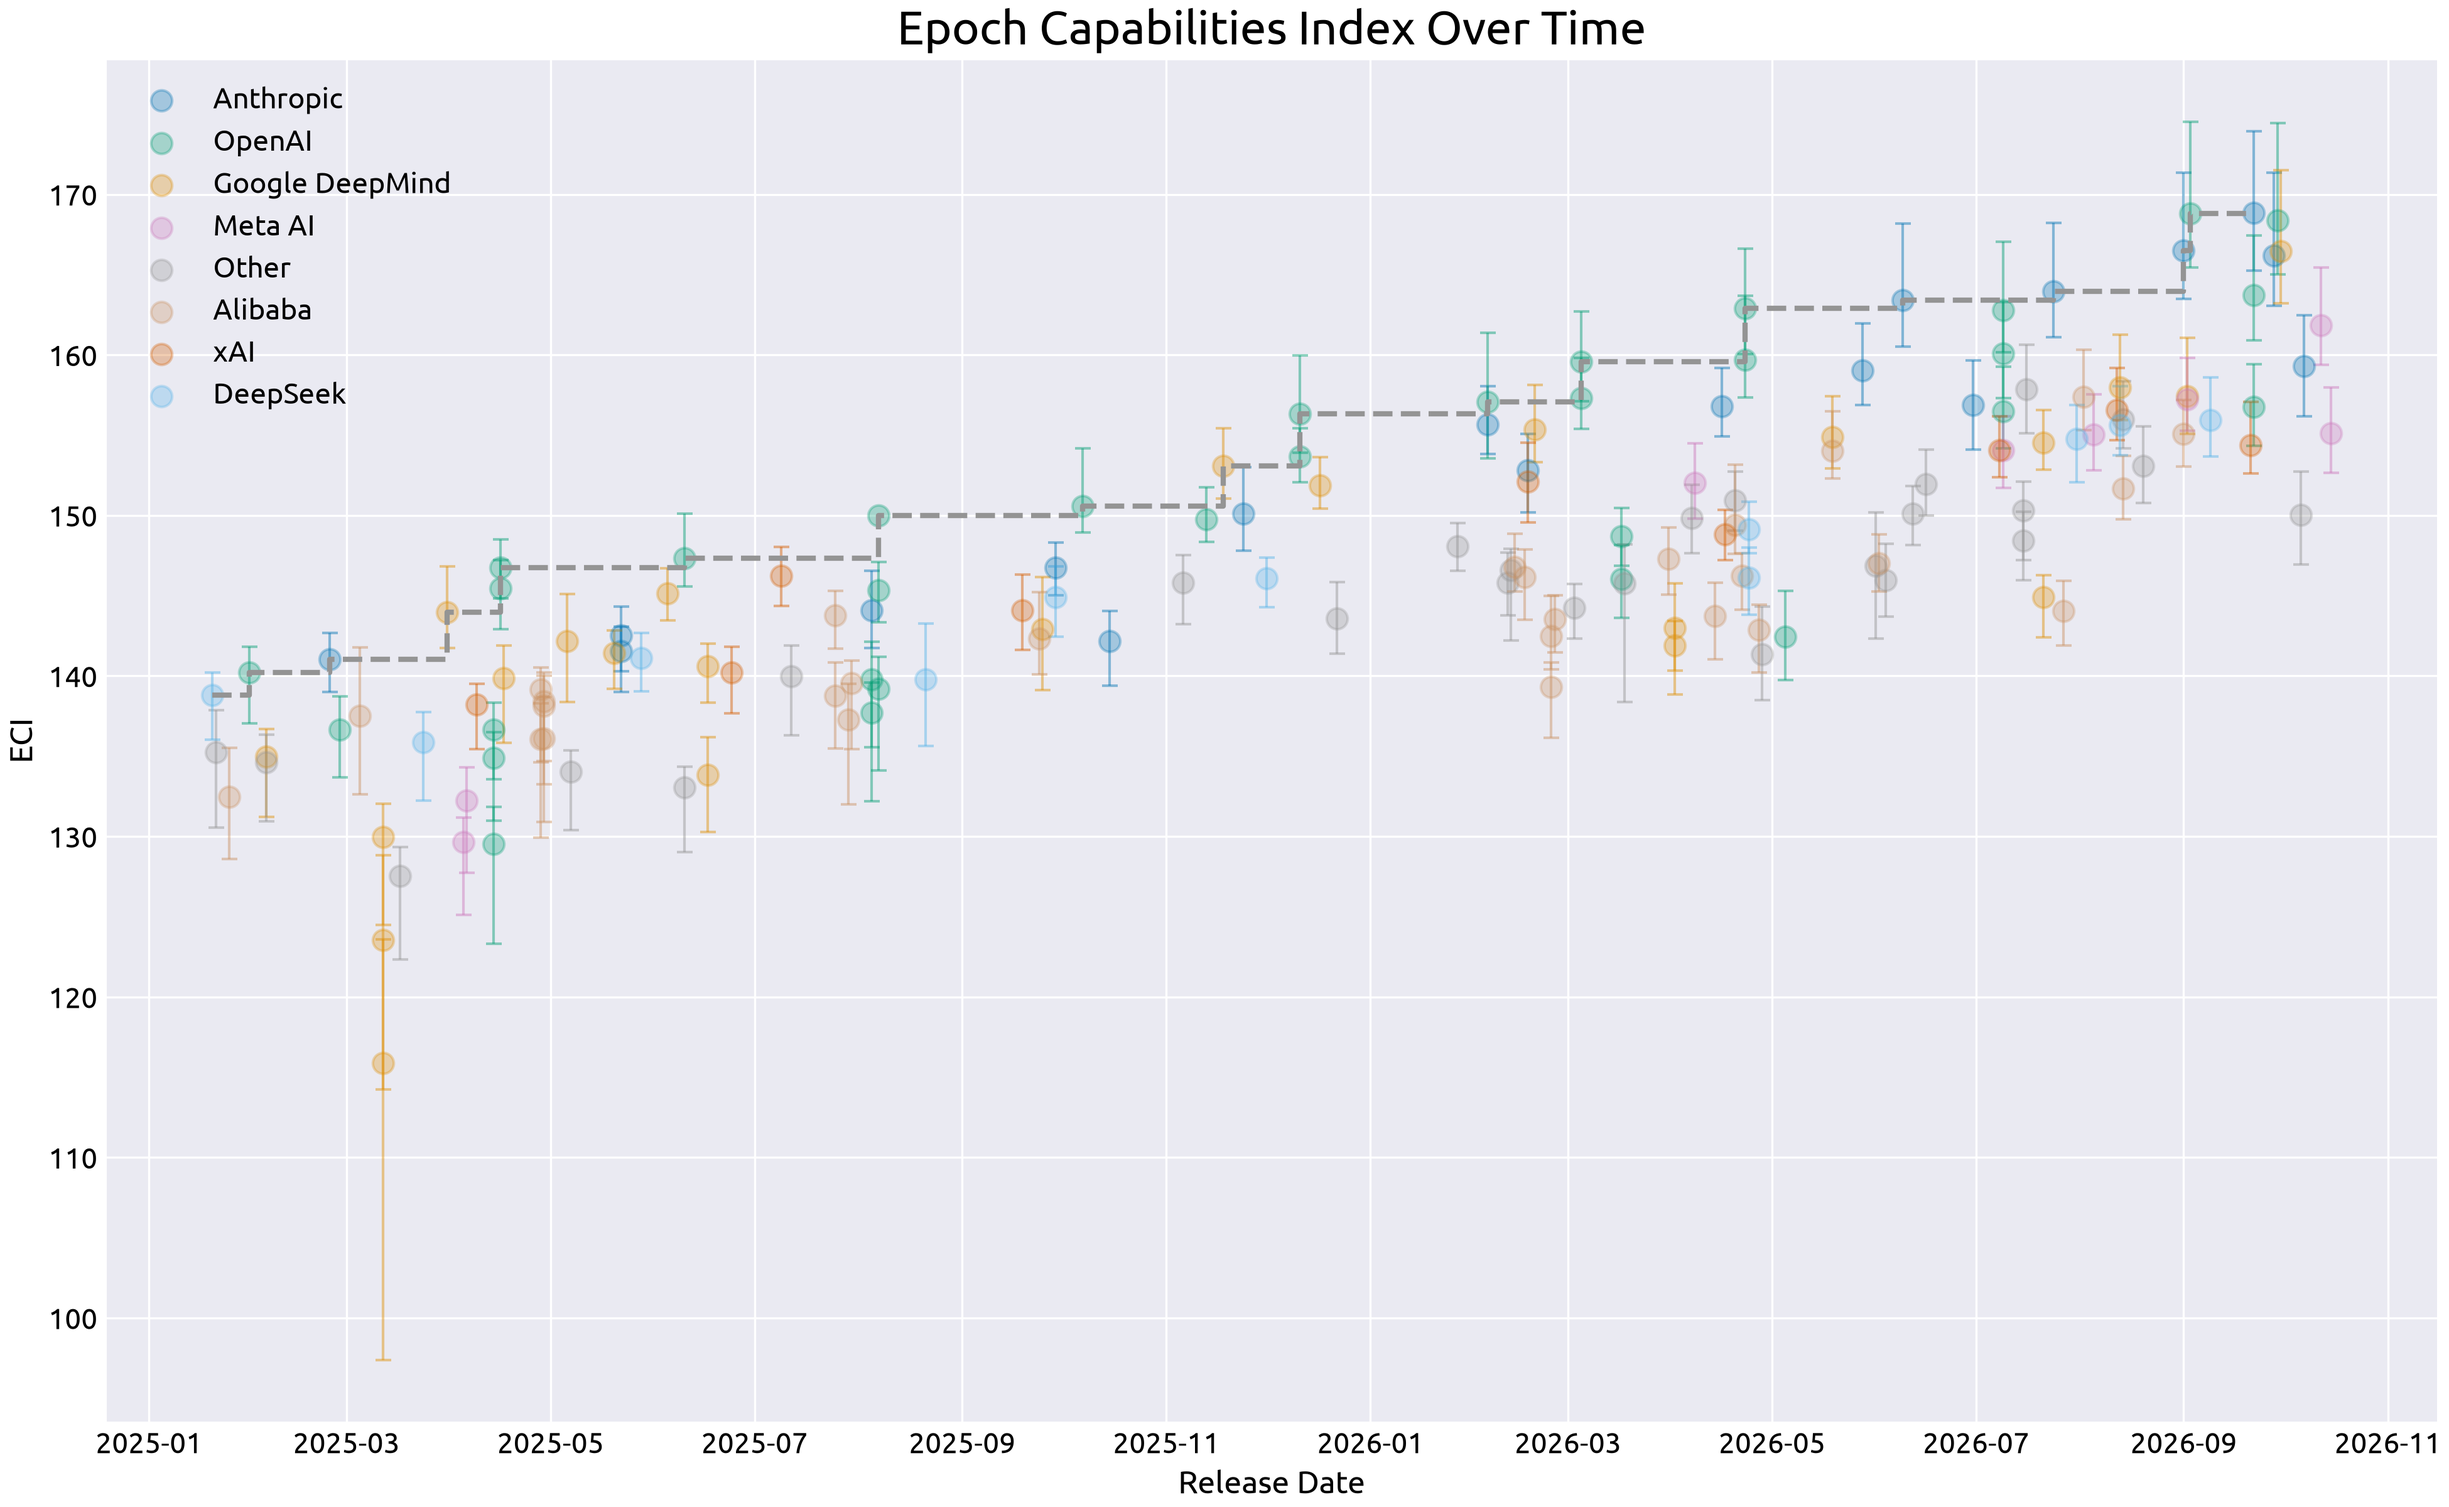
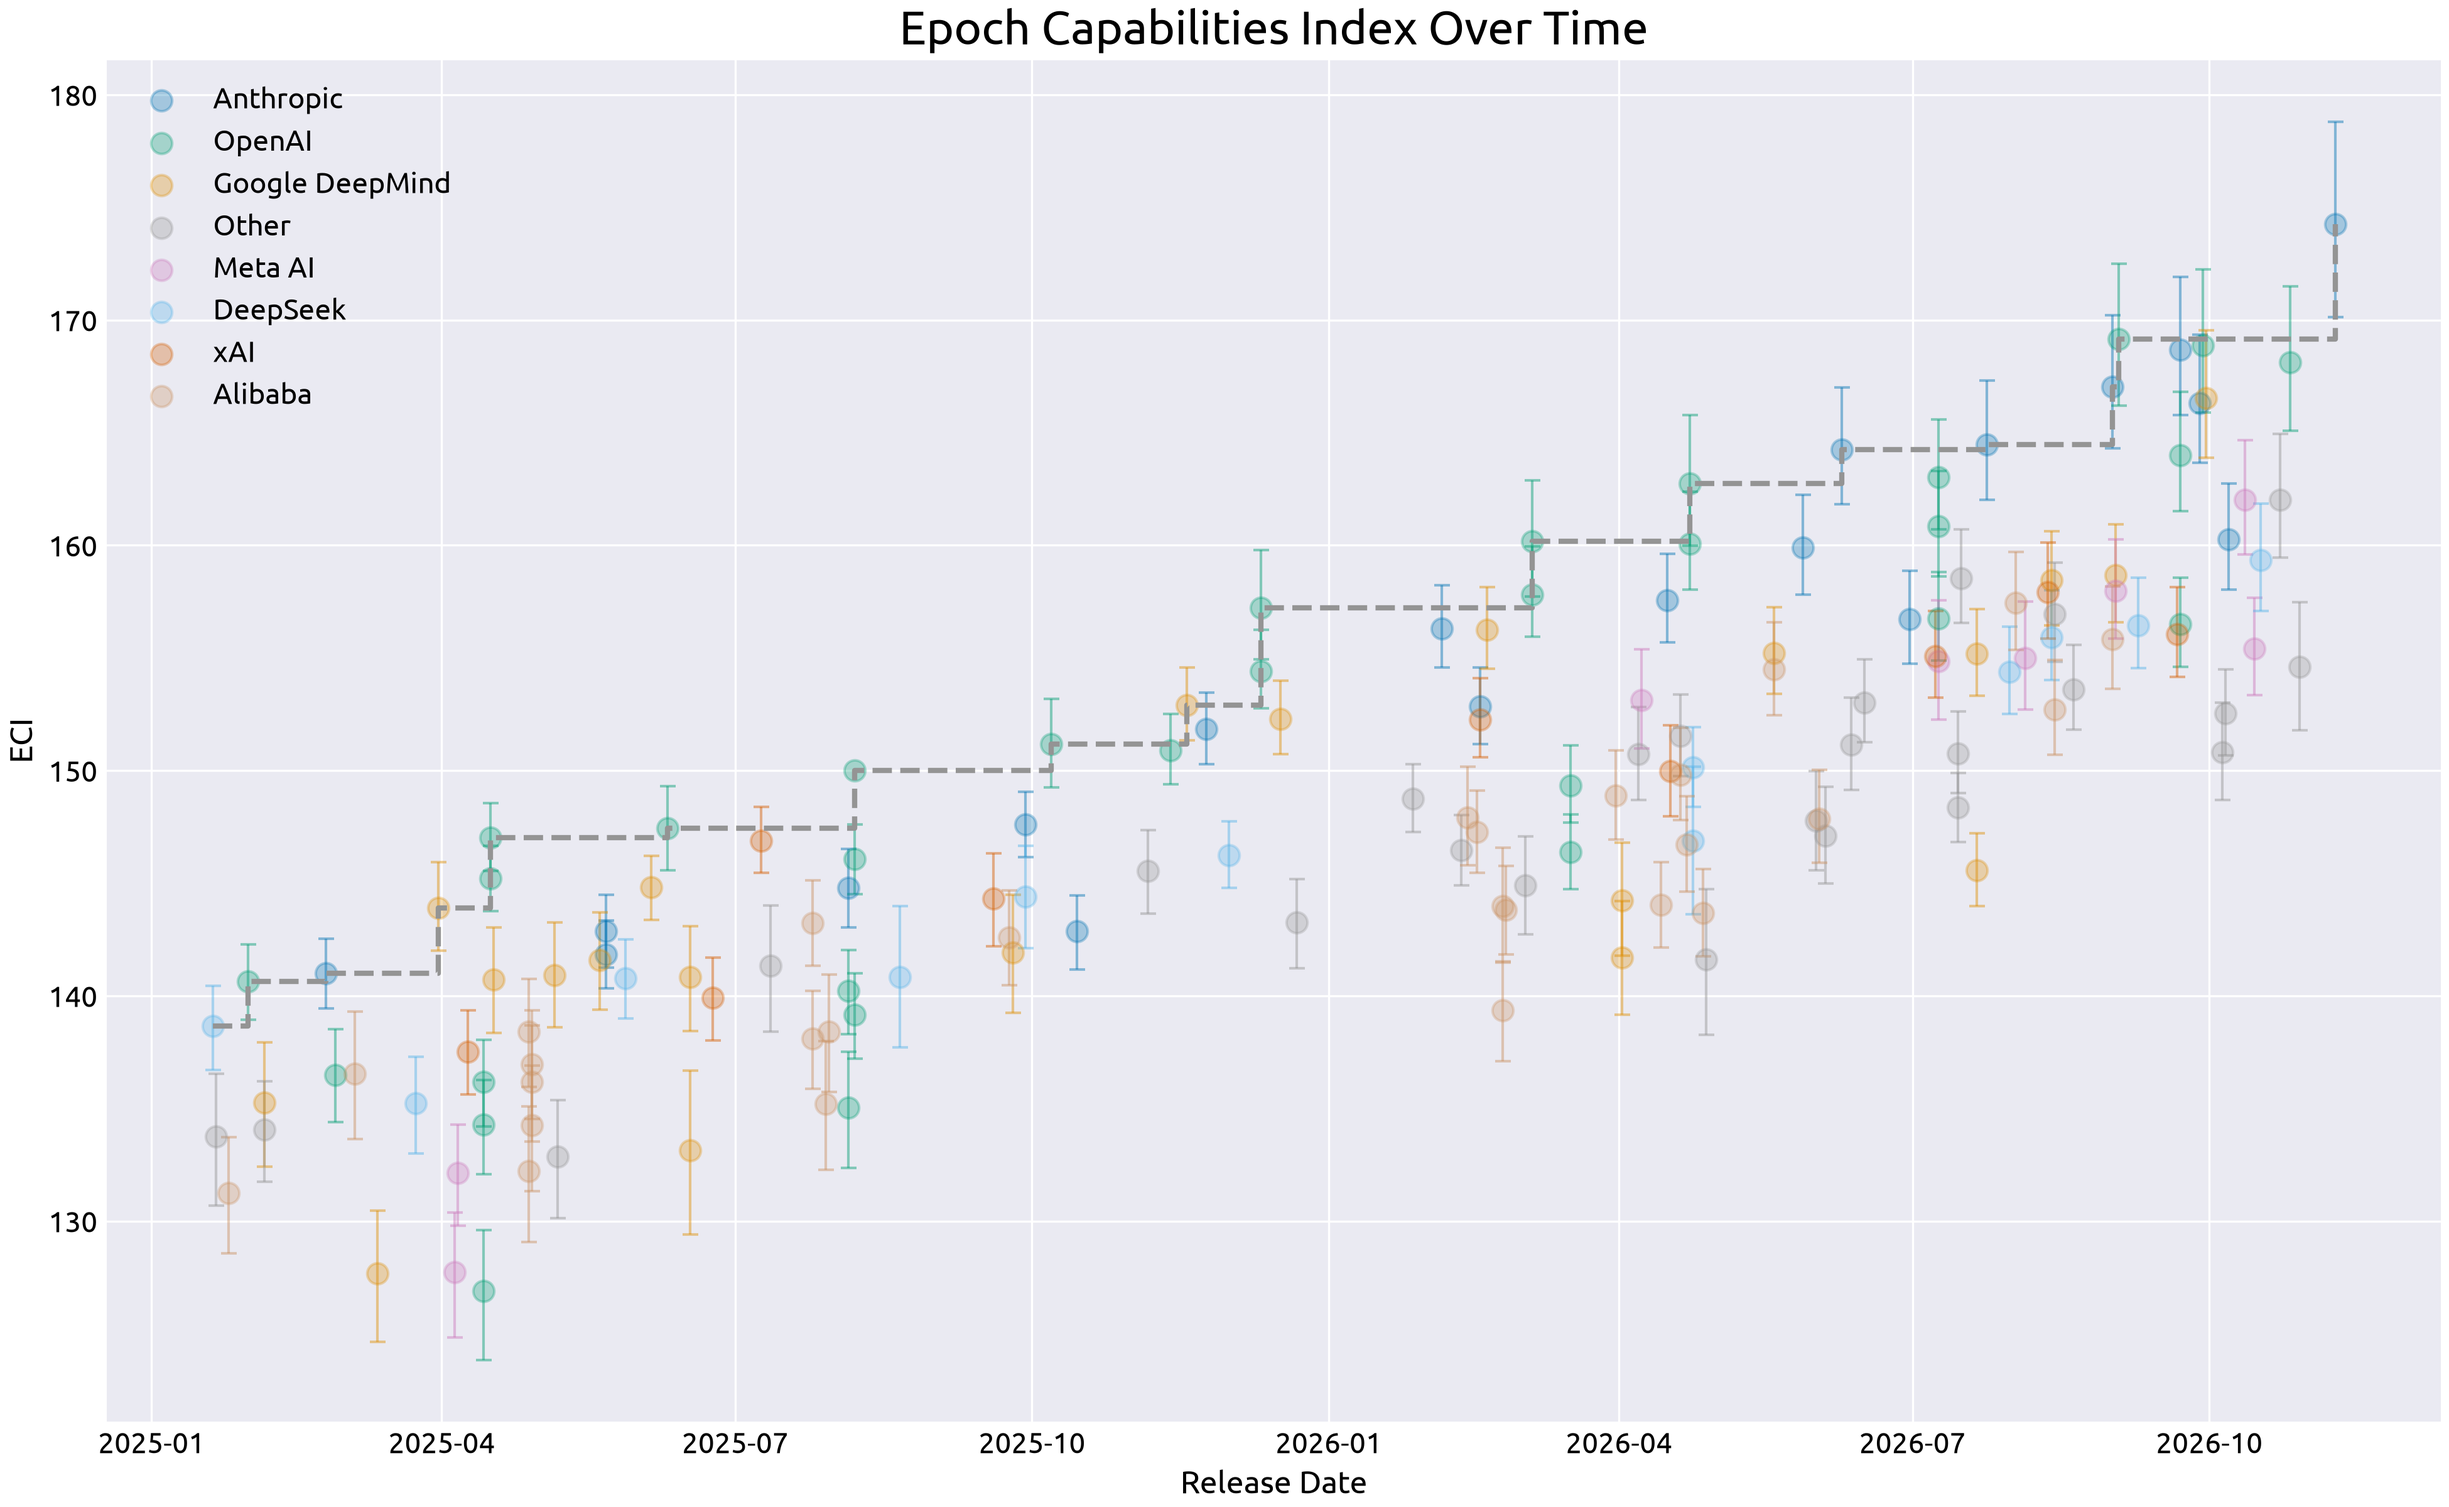
Fix ColorBy categories showing group tuples

diff --git a/snow/chart.py b/snow/chart.py
@@ -70,7 +70,7 @@ class ColorBy:
         """
 
         palette = cycle(Color)
-        for (category), group in data.group_by(self.column, maintain_order=True):
+        for (category,), group in data.group_by(self.column, maintain_order=True):
             assigned = (self.colors or {}).get(category) or next(palette)
             yield group, {"color": assigned.value, "label": str(category)}
 

diff --git a/examples/line_scatter_plot.py b/examples/line_scatter_plot.py
@@ -33,6 +33,7 @@ lab_colors = snow.ColorBy(
         "Google DeepMind": snow.Color.ORANGE,
         "OpenAI": snow.Color.GREEN,
         "xAI": snow.Color.RED,
+        "Meta AI": snow.Color.PURPLE,
         "Z.ai (Zhipu AI)": snow.Color.BROWN,
         "Moonshot": snow.Color.PINK,
     },
